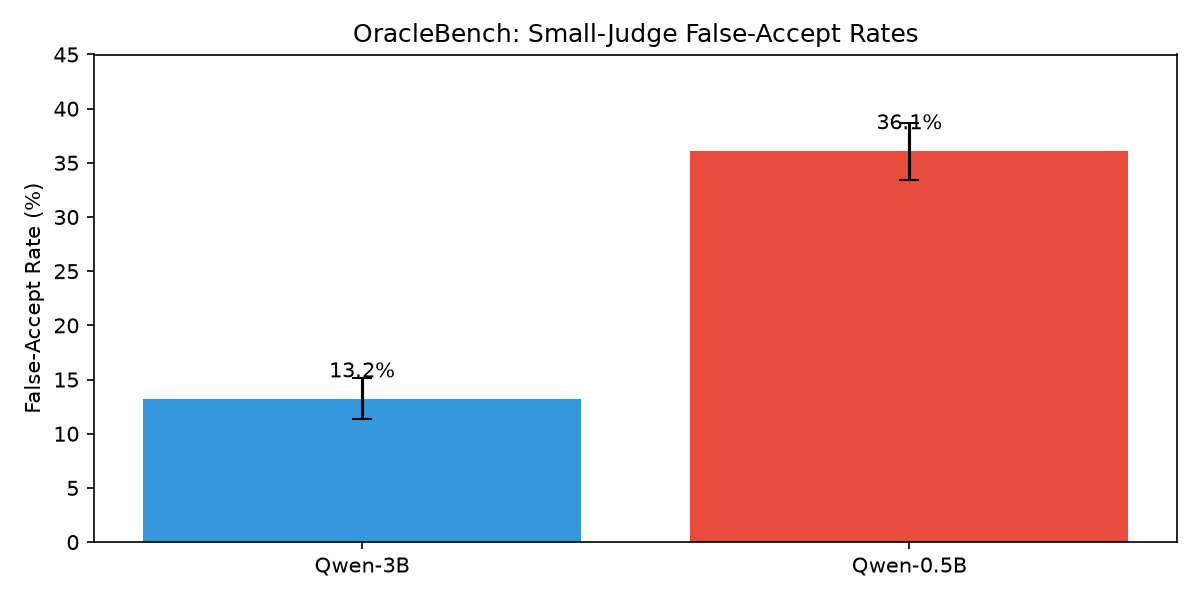
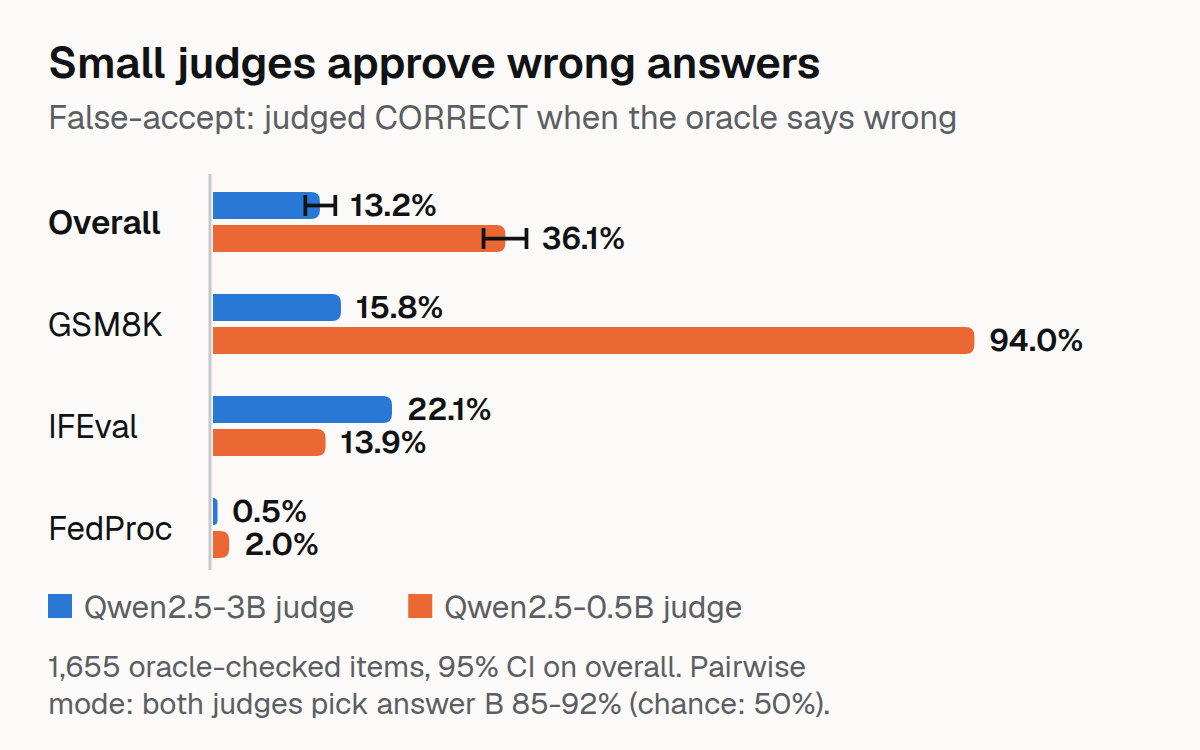
Scope the headline (overall false-accept, not 'fake legal clause'), refresh README and images
The old title implied the judges approved fake legal clauses 13% of the time; on
clause citations they accept 0.5% / 2.0% (blanket rejection). The 13.2% / 36.1%
are overall rates dominated by arithmetic.

diff --git a/devto_article.md b/devto_article.md
@@ -1,6 +1,6 @@
-![oraclebench results](https://raw.githubusercontent.com/raihan-js/oraclebench/main/images/oraclebench.png)
+![oraclebench results](https://raw.githubusercontent.com/raihan-js/oraclebench/HEAD/images/oraclebench.png)
 
-# My LLM Judge Approved a Fake Legal Clause 13% of the Time (and a Smaller One 36%)
+# Two Small LLM Judges Approved 13% and 36% of Wrong Answers (and Picked B 85–92% of the Time)
 
 *Grading small open judges against deterministic oracles — plus the harness that makes most judge calls unnecessary.*
 
@@ -15,6 +15,8 @@ Everyone uses LLM-as-judge. Existing benchmarks (JudgeBench, RewardBench) alread
 OracleBench grades two small open judges (Qwen2.5-3B and Qwen2.5-0.5B) against three deterministic oracles: the FAR/DFARS registry, GSM8K arithmetic, and 25 rule-based IFEval checkers. Item bank: 1,655 verified items (608 natural errors, 620 synthetic corruptions, 427 correct answers), each with frozen provenance.
 
 ## False-Accept Rates
+
+The headline 13.2% and 36.1% are the overall false-accept rate: the share of oracle-wrong answers (across GSM8K, IFEval and the FAR registry) that the judge called CORRECT. They are dominated by arithmetic; on clause citations the judges accept almost nothing (see below).
 
 | Judge | Overall | 95% CI | GSM8K | IFEval | FedProc |
 |---|---|---|---|---|---|

diff --git a/README.md b/README.md
@@ -1,5 +1,7 @@
 # OracleBench
 
+![OracleBench results](images/oraclebench.png)
+
 Grade small open LLM-as-judge setups against deterministic oracles — and ship the harness that makes most judge calls unnecessary.
 
 ## Results
@@ -28,7 +30,7 @@ The 0.5B judge rubber-stamps arithmetic (94% false-accept) while both judges bla
 
 ## Status
 
-Milestones 1–3 complete. Write-up pending. See `AGENTS.md`.
+Complete: 14 tests, results above, [dataset on Hugging Face](https://huggingface.co/datasets/raihan-js/oraclebench-items). See `AGENTS.md`.
 
 ## Limitations (read before citing)
 
